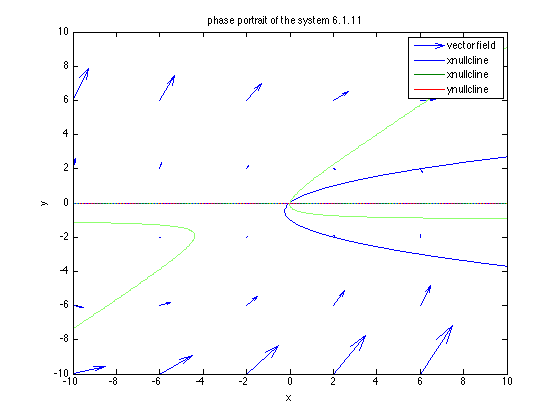
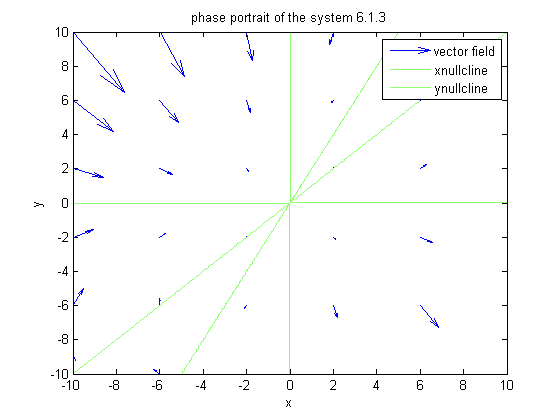
hws

diff --git a/mtlab/html/hw3q6.html b/mtlab/html/hw3q6.html
@@ -6,7 +6,7 @@
    <!--
 This HTML was auto-generated from MATLAB code.
 To make changes, update the MATLAB code and republish this document.
-      --><title>hw3q7</title><meta name="generator" content="MATLAB 7.13"><link rel="schema.DC" href="http://purl.org/dc/elements/1.1/"><meta name="DC.date" content="2012-10-25"><meta name="DC.source" content="hw3q7.m"><style type="text/css">
+      --><title>hw3q6</title><meta name="generator" content="MATLAB 7.13"><link rel="schema.DC" href="http://purl.org/dc/elements/1.1/"><meta name="DC.date" content="2012-10-25"><meta name="DC.source" content="hw3q6.m"><style type="text/css">
 
 body {
   background-color: white;
@@ -63,37 +63,37 @@ p.footer {
 }
 
   </style></head><body><div class="content"><pre class="codeinput">syms <span class="string">x</span> <span class="string">y</span>
-X= x*(x-y);
-Y= y*(2*x-y);
+X= x*(2-x-y);
+Y= x-y;
 figure
 F=[X Y];
 vectline (F,[x y],[-10 10 -10 10]);
 u=-10:0.01:10;
 
 hold <span class="string">on</span>
-ezplot(<span class="string">'x*(x-y)'</span>,[-10,10,-10,10])
-ezplot(<span class="string">'y*(2*x-y)'</span>,[-10,10,-10,10]);
+ezplot(<span class="string">'x*(2-x-y)'</span>,[-10,10,-10,10])
+ezplot(<span class="string">'x-y'</span>,[-10,10,-10,10]);
 axis([-10 10 -10 10])
 
 legend(<span class="string">'vector field'</span>,<span class="string">'xnullcline'</span>,<span class="string">'ynullcline'</span>)
-title(<span class="string">'phase portrait of the system 6.1.3'</span>)
-</pre><img vspace="5" hspace="5" src="hw3q7_01.png" alt=""> <p class="footer"><br>
+title(<span class="string">'phase portrait of the system 6.1.5'</span>)
+</pre><img vspace="5" hspace="5" src="hw3q6_01.png" alt=""> <p class="footer"><br>
       Published with MATLAB&reg; 7.13<br></p></div><!--
 ##### SOURCE BEGIN #####
 syms x y
-X= x*(x-y);
-Y= y*(2*x-y);
+X= x*(2-x-y);
+Y= x-y;
 figure
 F=[X Y];
 vectline (F,[x y],[-10 10 -10 10]);
 u=-10:0.01:10;
 
 hold on
-ezplot('x*(x-y)',[-10,10,-10,10])
-ezplot('y*(2*x-y)',[-10,10,-10,10]);
+ezplot('x*(2-x-y)',[-10,10,-10,10])
+ezplot('x-y',[-10,10,-10,10]);
 axis([-10 10 -10 10])
 
 legend('vector field','xnullcline','ynullcline')
-title('phase portrait of the system 6.1.3')
+title('phase portrait of the system 6.1.5')
 ##### SOURCE END #####
 --></body></html>

diff --git a/mtlab/hw3q6.m b/mtlab/hw3q6.m
@@ -1,15 +1,15 @@
 syms x y
-X= x*(x-y);
-Y= y*(2*x-y);
+X= x*(2-x-y);
+Y= x-y;
 figure
 F=[X Y];
 vectline (F,[x y],[-10 10 -10 10]);
 u=-10:0.01:10;
 
 hold on
-ezplot('x*(x-y)',[-10,10,-10,10])
-ezplot('y*(2*x-y)',[-10,10,-10,10]);
+ezplot('x*(2-x-y)',[-10,10,-10,10])
+ezplot('x-y',[-10,10,-10,10]);
 axis([-10 10 -10 10])
 
 legend('vector field','xnullcline','ynullcline')
-title('phase portrait of the system 6.1.3')
+title('phase portrait of the system 6.1.5')
